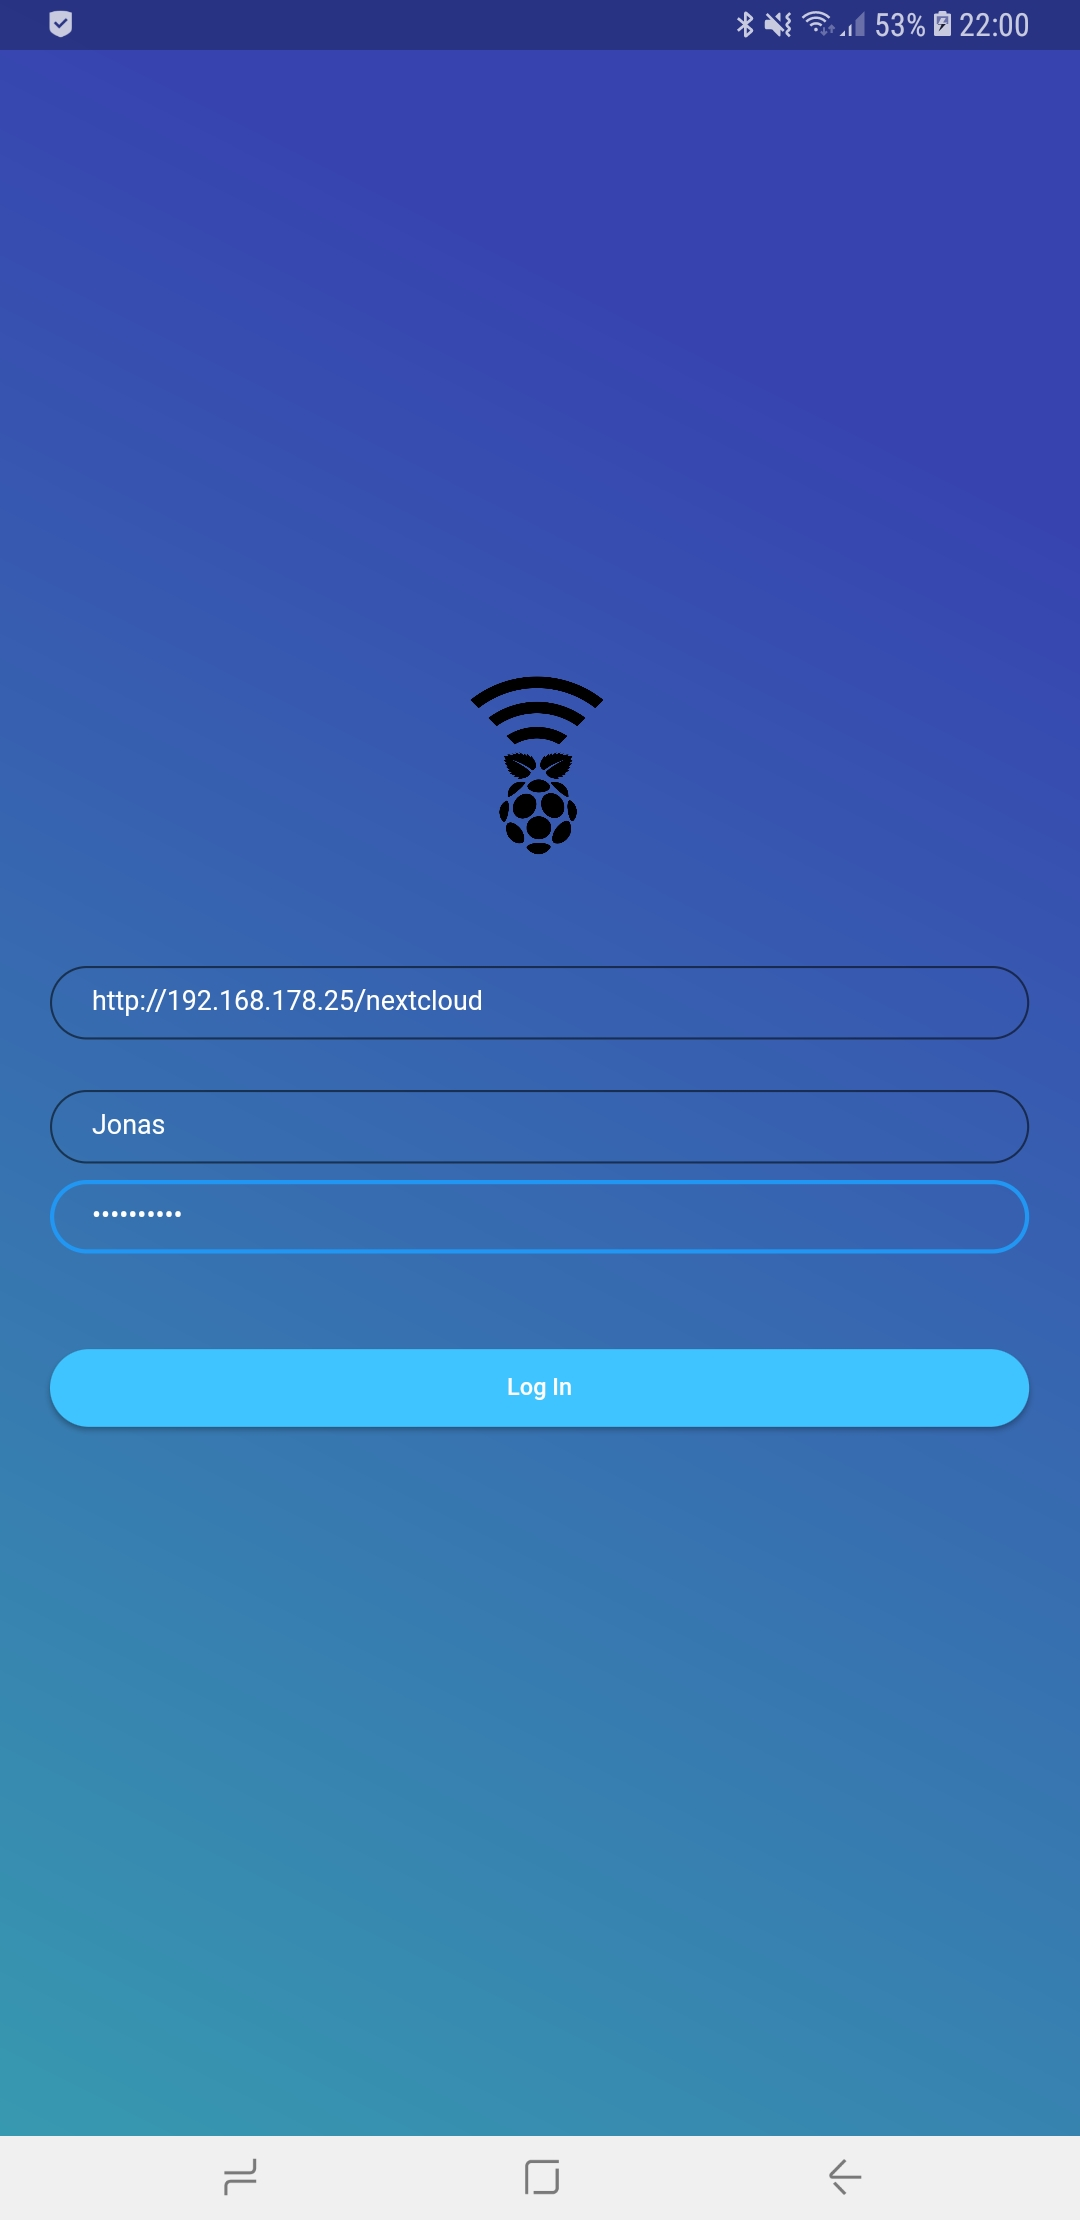
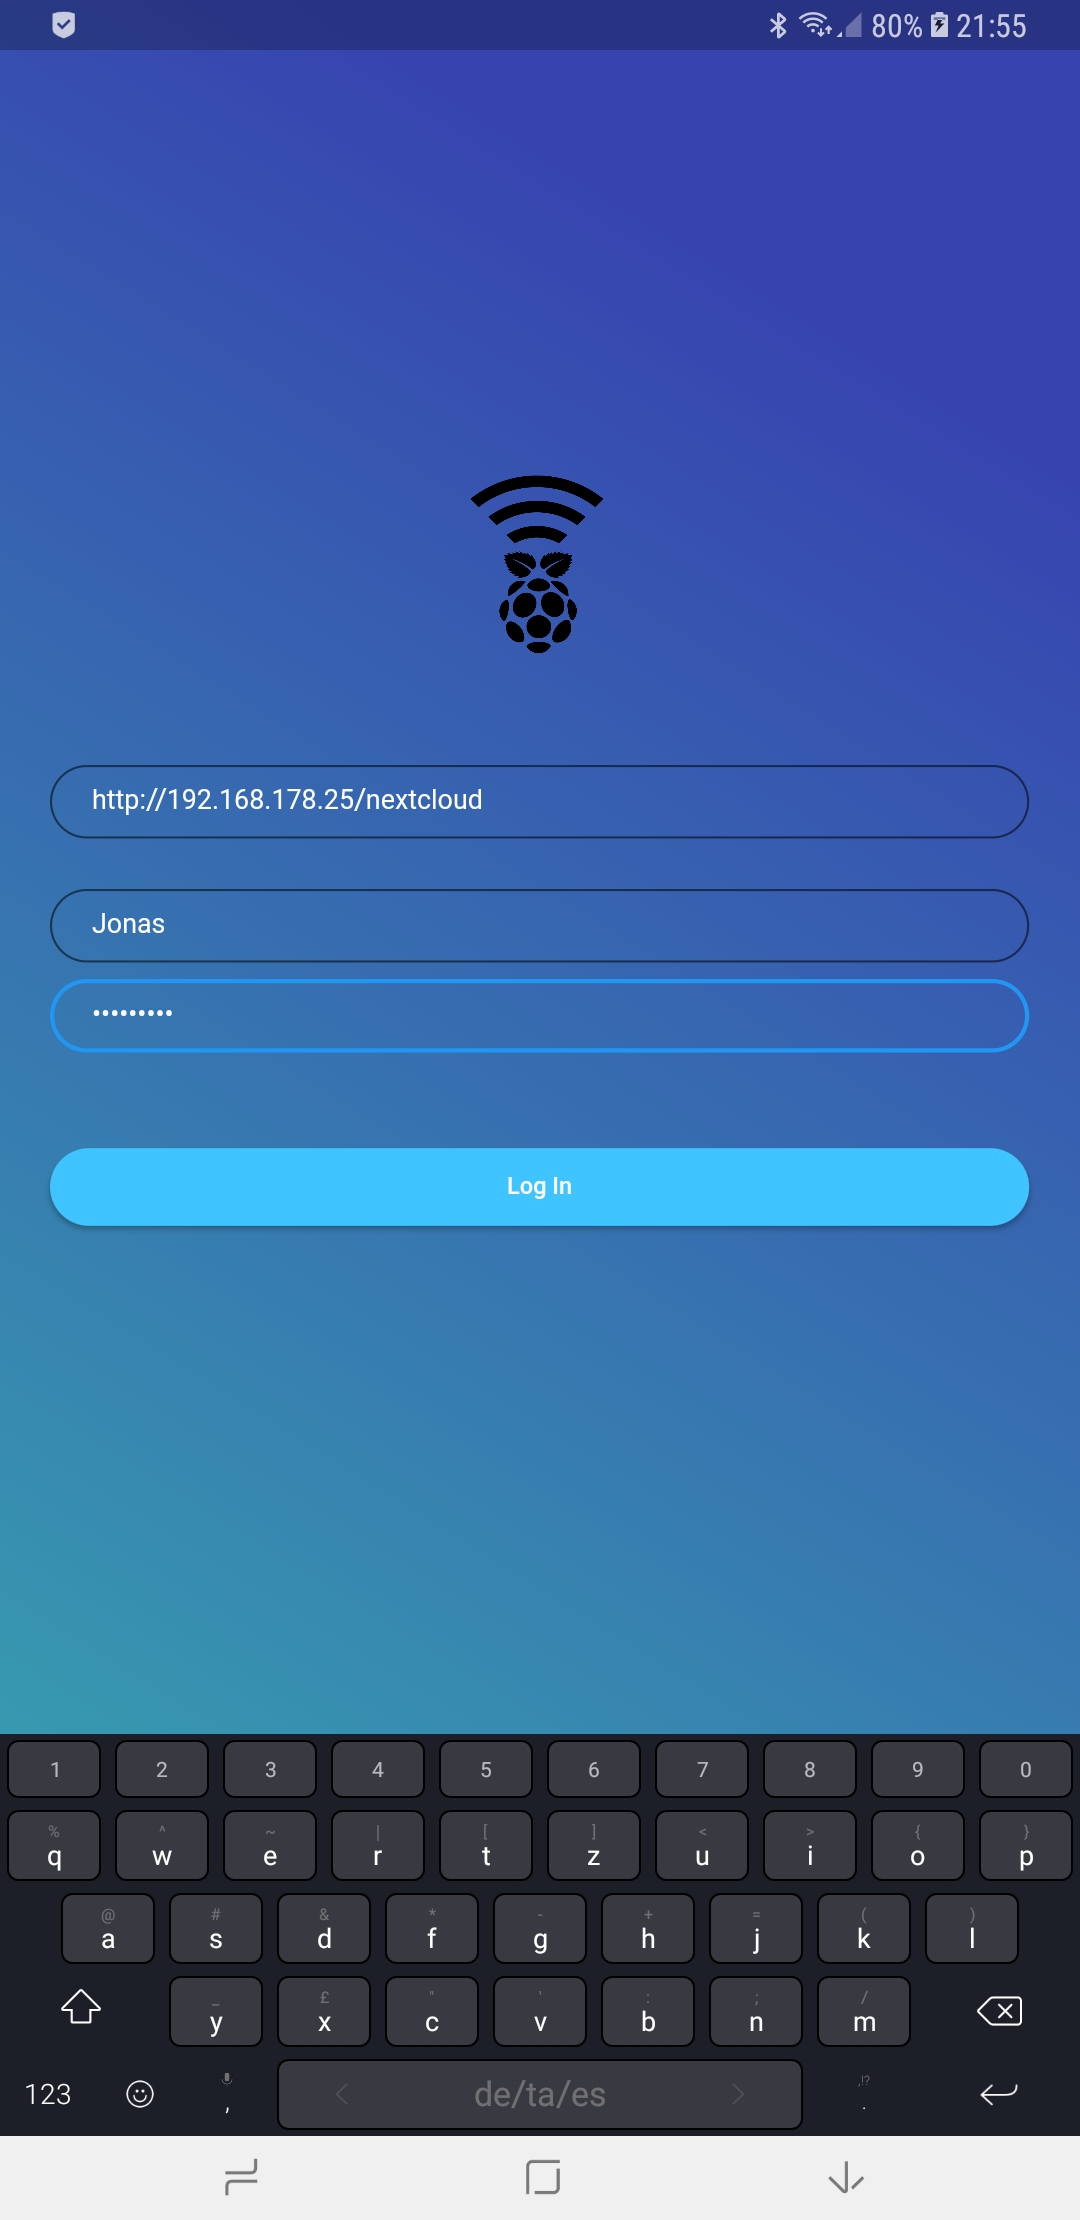
update readme and screenshots

diff --git a/README.md b/README.md
@@ -10,7 +10,7 @@ Android Frontends to speak to a nextcloud server.
 
 [![Platform](https://img.shields.io/badge/platform-Android-blue.svg)](https://www.android.com)
 [![Build](https://img.shields.io/badge/build-Success-green.svg)](/wireless_control)
-[![Version](https://img.shields.io/badge/version-1.0.0+1-blue.svg)](/wireless_control)
+[![Version](https://img.shields.io/badge/version-1.1.0+1-blue.svg)](/wireless_control)
 
 [![API21+](https://img.shields.io/badge/API-16+-blue.svg)](https://android-arsenal.com/api?level=16)
 [![Flutter](https://img.shields.io/badge/lang-Flutter-blue.svg)](https://flutter.dev/)
@@ -18,9 +18,8 @@ Android Frontends to speak to a nextcloud server.
 
 Android client to remotely control wireless sockets and switches using nextcloud server.
 
-LoginPage|LoadingPage|NoNetworkPage|ListPage|DetailsPage|
- --- | --- | --- | --- | --- |
-![alt tag](/screenshots/wireless_control_LoginPage.jpg)|![alt tag](/screenshots/wireless_control_LoadingPage.jpg)|![alt tag](/screenshots/wireless_control_NoNetworkPage.jpg)|![alt tag](/screenshots/wireless_control_ListPage.jpg)|![alt tag](/screenshots/wireless_control_DetailsPage.jpg)|
+![alt tag](/screenshots/wireless_control_1.jpg)
+![alt tag](/screenshots/wireless_control_2.jpg)
 
 ### LogMyMeter: 
 

diff --git a/wireless_control/README.md b/wireless_control/README.md
@@ -4,7 +4,7 @@ Android Frontend to control sockets via 433MHz hosted by a NextCloud server.
 
 [![Platform](https://img.shields.io/badge/platform-Android-blue.svg)](https://www.android.com)
 [![Build](https://img.shields.io/badge/build-Success-green.svg)](./wireless_control)
-[![Version](https://img.shields.io/badge/version-1.0.0+1-blue.svg)](./wireless_control)
+[![Version](https://img.shields.io/badge/version-1.1.0+1-blue.svg)](./wireless_control)
 
 [![API21+](https://img.shields.io/badge/API-16+-blue.svg)](https://android-arsenal.com/api?level=16)
 [![Flutter](https://img.shields.io/badge/lang-Flutter-blue.svg)](https://flutter.dev/)
@@ -12,9 +12,8 @@ Android Frontend to control sockets via 433MHz hosted by a NextCloud server.
 
 ## Screenshots
 
-LoginPage|LoadingPage|NoNetworkPage|ListPage|DetailsPage|
- --- | --- | --- | --- | --- |
-![alt tag](../screenshots/wireless_control_LoginPage.jpg)|![alt tag](../screenshots/wireless_control_LoadingPage.jpg)|![alt tag](../screenshots/wireless_control_NoNetworkPage.jpg)|![alt tag](../screenshots/wireless_control_ListPage.jpg)|![alt tag](../screenshots/wireless_control_DetailsPage.jpg)|
+![alt tag](../screenshots/wireless_control_1.jpg)
+![alt tag](../screenshots/wireless_control_2.jpg)
 
 ## License
 
